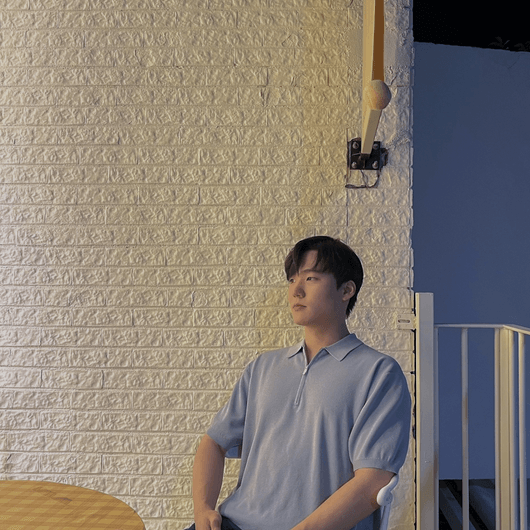
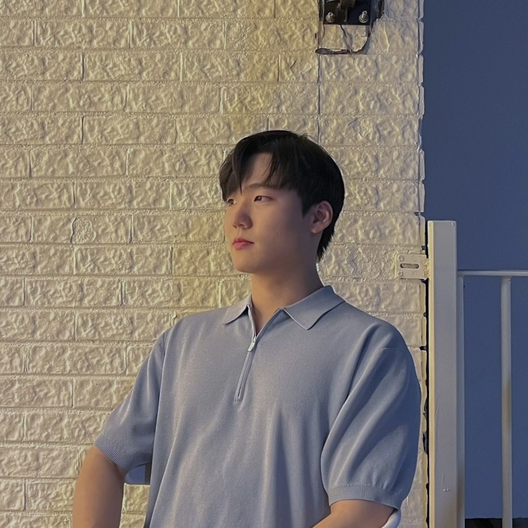
feat: 프로필 사진을 원형으로 바꾸고 메뉴 글자를 키움

diff --git a/app/page.tsx b/app/page.tsx
@@ -9,10 +9,11 @@ export default function Home() {
   return (
     <main className="px-4 pt-14 pb-24">
       <div className="mx-auto max-w-content">
-        <section className="flex flex-col-reverse gap-8 md:flex-row md:items-end md:gap-6">
+        {/* 좁은 화면은 사진을 인사말 오른쪽 위에 두고, 링크 줄은 그 아래 전체 폭을 쓴다. */}
+        <section className="grid grid-cols-[1fr_auto] items-start gap-x-3 md:flex md:items-end md:gap-6">
           {/* 시안에서 링크 줄 아래 끝이 사진 아래 끝보다 16px 위에 있다. */}
-          <div className="md:flex-1 md:pb-4">
-            <h1 className="text-greeting-narrow font-light md:text-greeting">
+          <div className="contents md:block md:flex-1 md:pb-4">
+            <h1 className="text-greeting-narrow font-normal md:text-greeting">
               <span className="block">안녕하세요.</span>
               <TypingLine lines={["Java와 Spring을 좋아하는", "OOP와 TDD에 관심이 많은", "AI 에이전트에 관심이 많은", "LLM Eval에 관심이 많은"]} />
               <span className="block">
@@ -20,7 +21,7 @@ export default function Home() {
               </span>
             </h1>
             {/* 아이콘은 SVG 파일을 mask로 씌워 그린다. 색은 bg-current라 글자색(다크 모드 포함)을 따른다. */}
-            <ul className="mt-5 flex list-none flex-wrap gap-x-10 gap-y-2">
+            <ul className="col-span-2 mt-5 flex list-none flex-wrap gap-x-10 gap-y-2">
               <li>
                 <a href="https://github.com/sonic8-8" className="flex items-center gap-3 transition-opacity hover:opacity-70 motion-reduce:transition-none">
                   <span aria-hidden="true" className="size-5.5 bg-current mask-[url(/icons/github.svg)] mask-contain mask-no-repeat" />
@@ -35,7 +36,8 @@ export default function Home() {
               </li>
             </ul>
           </div>
-          {/* public/photo.png는 보정한 원본(1839px)을 2배 해상도인 530px로 줄이고 메타데이터를 지운 것이다. */}
+          {/* public/photo.png는 보정한 원본(1839px)에서 GitHub 프로필 사진과 같은 범위(왼쪽 위 510, 535에서 1150px 정사각형)를 잘라
+              2배 해상도인 528px로 줄이고 메타데이터를 지운 것이다. */}
           <Image
             src="/photo.png"
             alt="흰 벽돌 벽 앞에 앉아 있는 이승환"
@@ -44,7 +46,7 @@ export default function Home() {
             unoptimized
             loading="eager"
             fetchPriority="high"
-            className="block size-66 shrink-0"
+            className="col-start-2 row-start-1 block size-photo-narrow shrink-0 rounded-full md:size-66"
           />
         </section>
 

diff --git a/app/globals.css b/app/globals.css
@@ -7,12 +7,15 @@
   --font-sans: "Pretendard Variable", Pretendard, system-ui, sans-serif;
   /* 시안의 본문 폭 720px. max-w-content로 쓴다. */
   --container-content: 45rem;
-  /* 홈 인사말. 39px: 가장 긴 가운데 줄 "OOP와 TDD에 관심이 많은"(10.77em)과 커서(0.2em 띄움, 2px)가 사진 옆 432px에 한 줄로 들어가는 크기(430px).
-     줄 간격 1.42는 시안의 줄 간격 55.5px. 좁은 화면 26px는 같은 줄이 320px 화면(본문 288px)에 들어가는 크기. */
-  --text-greeting: 2.4375rem;
+  /* 홈 인사말(굵기 400). 38.88px: 가장 긴 가운데 줄 "OOP와 TDD에 관심이 많은"(10.84em)과 커서(0.2em 띄움, 2px)가 사진 옆 432px에 한 줄로 들어가는 크기(431px).
+     줄 간격 1.42는 시안의 줄 간격 55.5px. */
+  --text-greeting: 2.43rem;
   --text-greeting--line-height: 1.42;
-  --text-greeting-narrow: 1.625rem;
+  /* 좁은 화면은 21px, 사진 지름은 그 16/3배인 112px. 390px보다 좁으면 같은 줄과 커서(11.04em + 2px), 간격 12px, 사진(5.33em)이
+     본문 폭(100vw − 32px)에 들어가도록 둘 다 함께 줄인다: 16.38em + 14px ≤ 100vw − 32px. 320px에서 16.7px, 사진 89px. */
+  --text-greeting-narrow: min(1.3125rem, calc((100vw - 2.875rem) / 16.38));
   --text-greeting-narrow--line-height: 1.42;
+  --spacing-photo-narrow: calc(var(--text-greeting-narrow) * 16 / 3);
   /* 홈 "최근 글" 같은 구역 제목. 시안의 "최근 글" 폭 61px(2.84em)에서 잰 22px. */
   --text-section: 1.375rem;
   --text-section--line-height: 1.4;

diff --git a/app/layout.tsx b/app/layout.tsx
@@ -32,7 +32,7 @@ export default function RootLayout({ children }: LayoutProps<"/">) {
             <Link href="/" className="text-lg transition-opacity hover:opacity-70 motion-reduce:transition-none">
               seung-hwan.com
             </Link>
-            <ul className="flex list-none gap-8 text-sm">
+            <ul className="flex list-none gap-8 text-base">
               <li>
                 <Link href="/about" className="transition-opacity hover:opacity-70 motion-reduce:transition-none">소개</Link>
               </li>

diff --git a/PRODUCT.md b/PRODUCT.md
@@ -41,7 +41,7 @@ web
 
 - 이름 표기: 이승환. 핸들: sonic8-8.
 - 사이트 이름은 따로 없고, 탭 제목은 `<페이지> | 이승환` 형식이다.
-- 실제 인물 사진을 쓴다. 생성 이미지로 바꾸지 않고 가볍게 보정만 한다(좌우 반전, 노란기 50% 감소, 크롭 없음). 느낌은 고급스럽게(사용자가 정함).
+- 실제 인물 사진을 쓴다. 생성 이미지로 바꾸지 않고 가볍게 보정만 한다(좌우 반전, 노란기 50% 감소, 원형, GitHub 프로필 사진과 같은 범위로 크롭). 느낌은 고급스럽게(사용자가 정함).
 - 첫 화면은 은유형 콘셉트가 아니라 정보 우선순위가 분명한 깔끔한 프로필형이다. 기준 사이트는 hyewoncc.github.io(왼쪽 인사말, 오른쪽 사진)이고, 처음 영감을 준 곳은 jeong-min.com이다(사용자가 정함).
 
 ## Evidence on Hand
